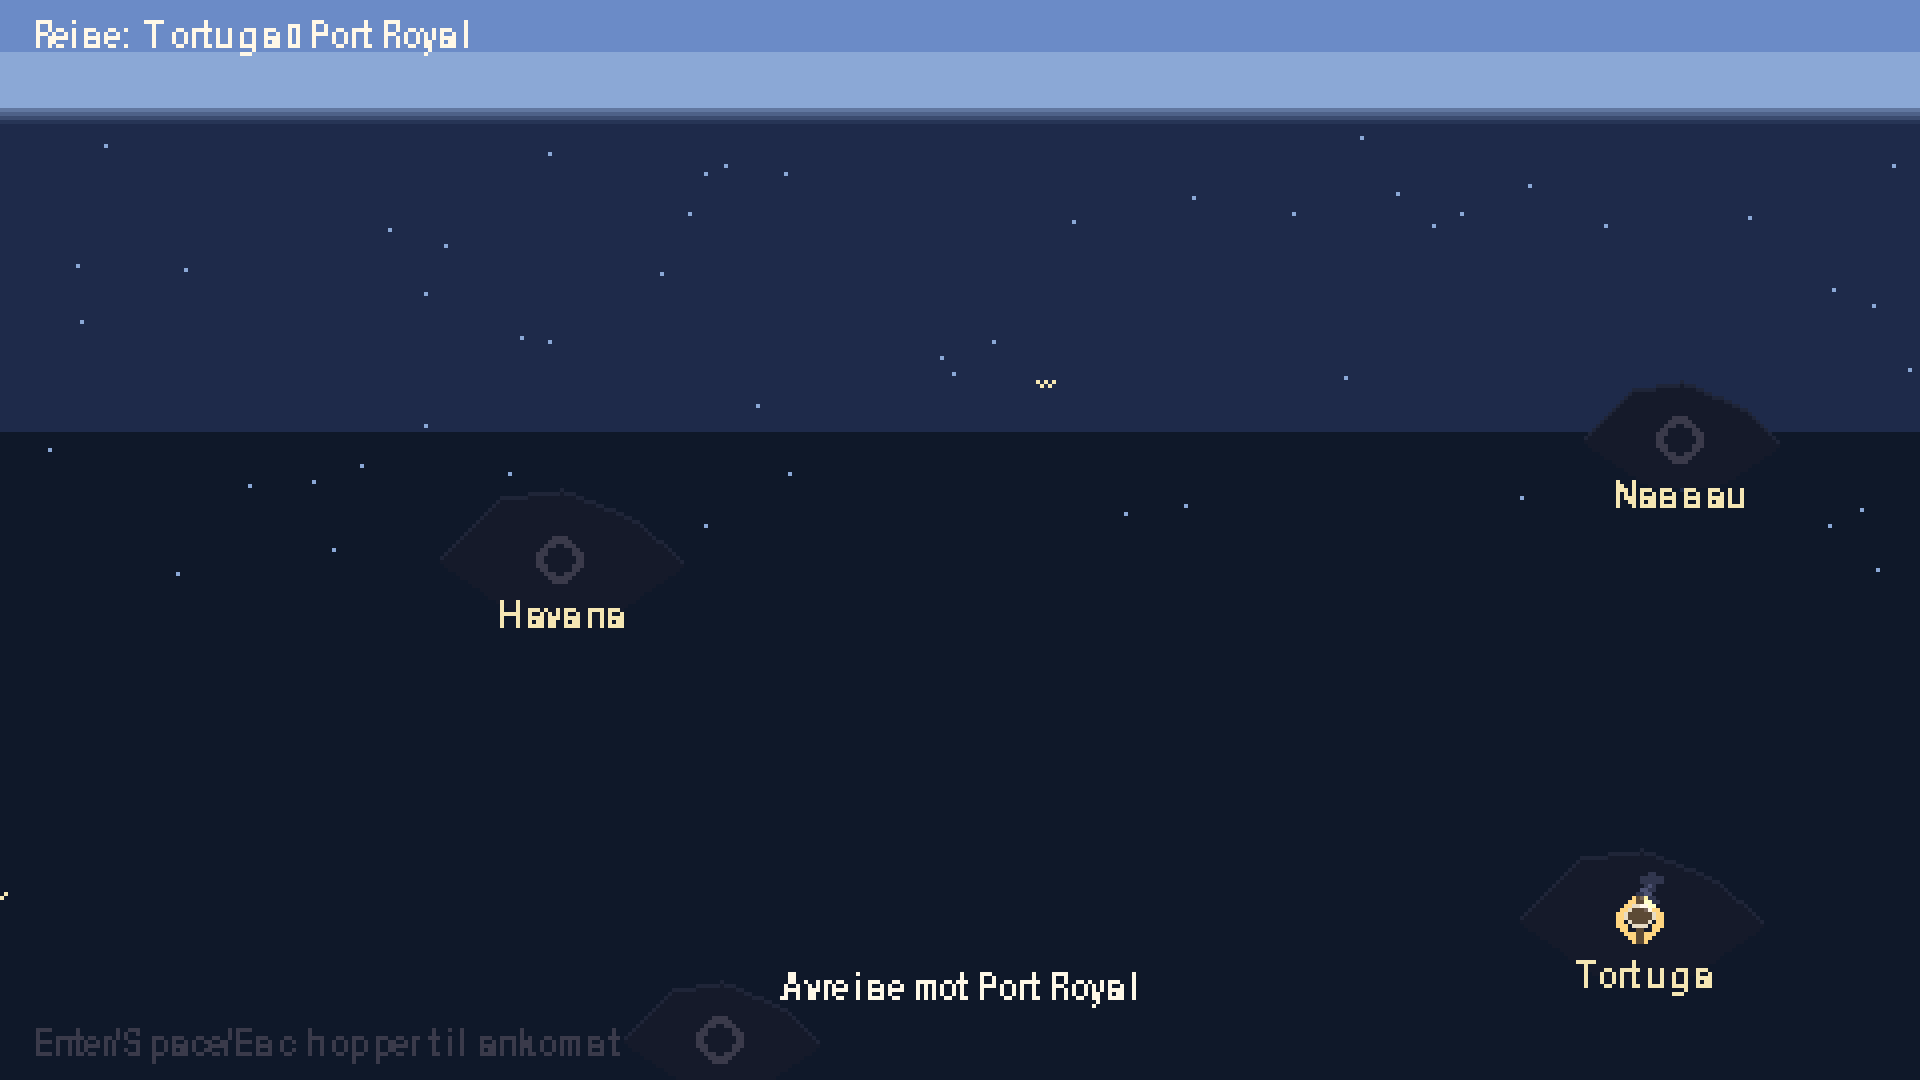
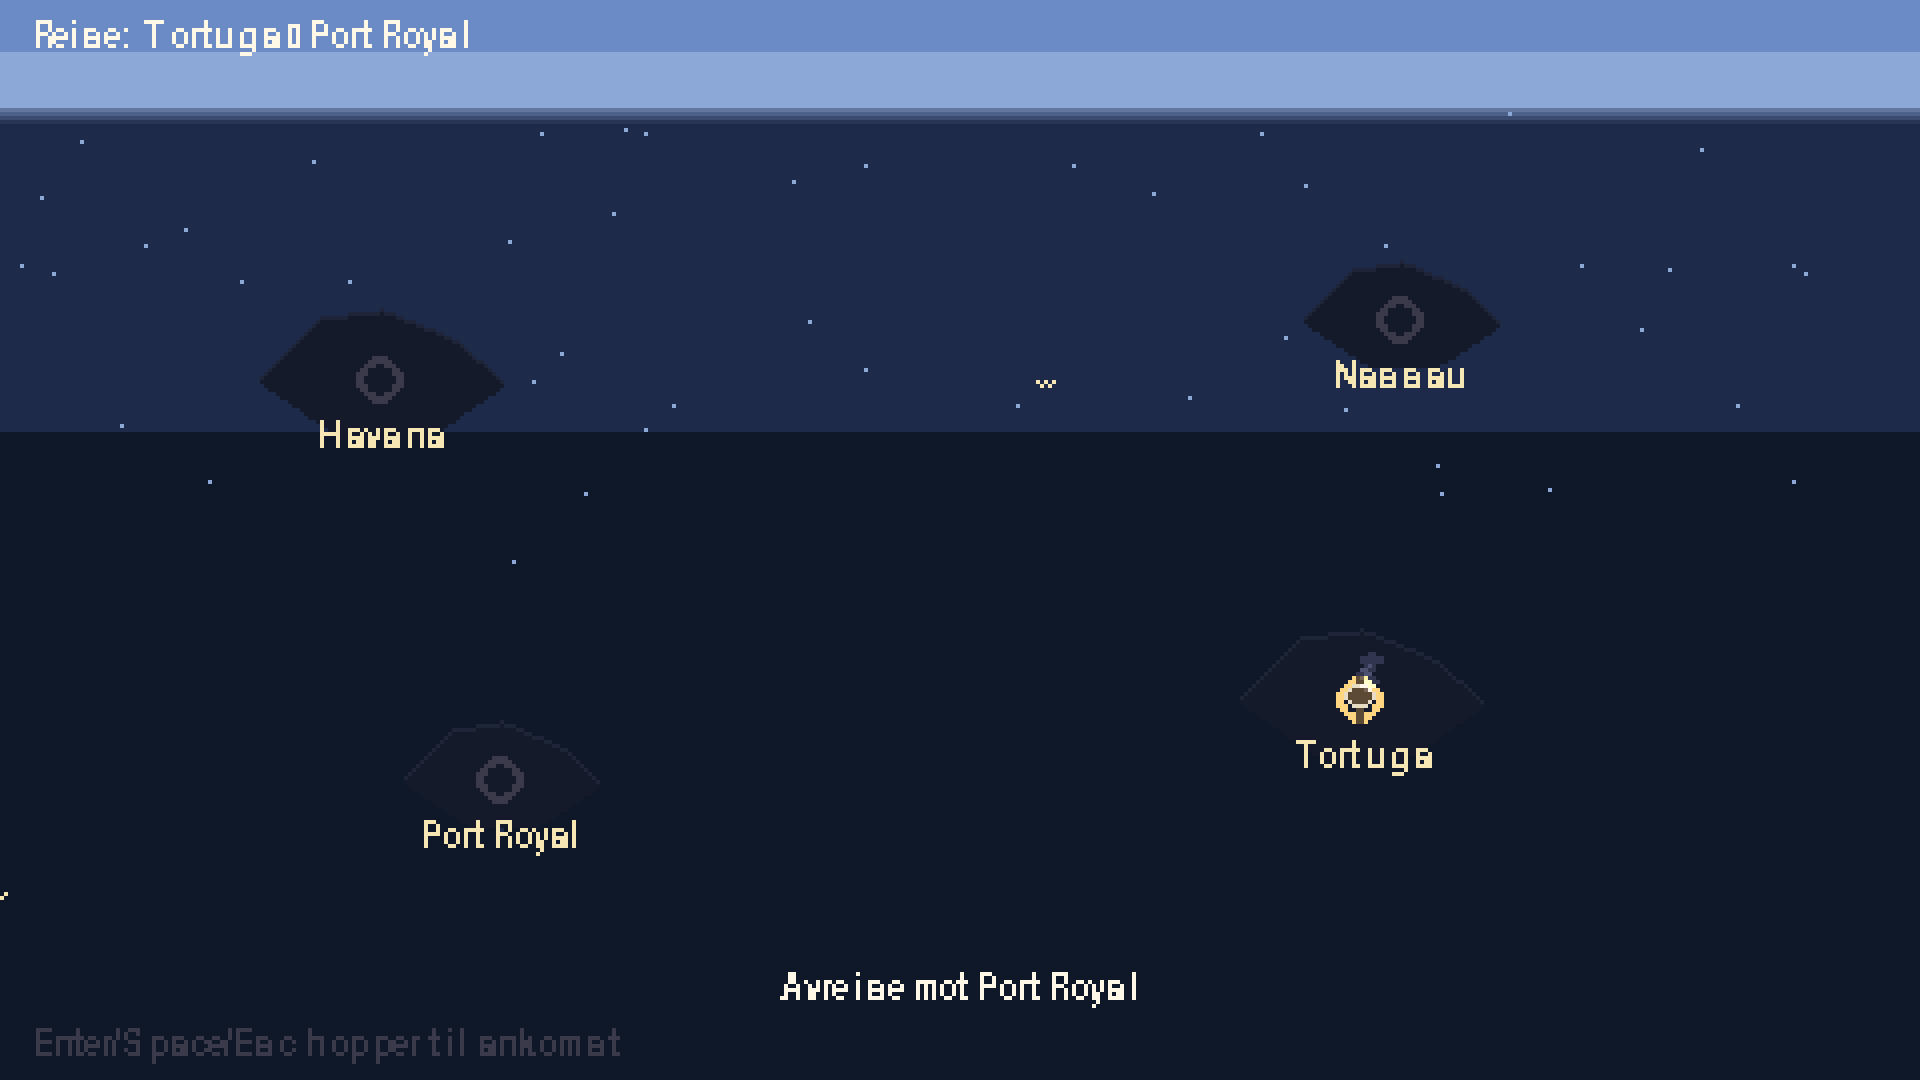
Fase 2.6 sub-steg 2: world_map + voyage paa 480x270
- data/ports.json: world_map_position re-balansert for 480x270
  (Tortuga 410,230 -> 340,175; Port Royal 180,260 -> 125,195;
  Havana 140,140 -> 95,95; Nassau 420,110 -> 350,80).
- scenes/world_map_builder.py: kommentar-/docstring-update.
- tests/test_world_map.py + tests/test_world_map_tooltip.py:
  bytt hardkodet 640/360 til constants.RENDER_WIDTH/HEIGHT, les
  havn-posisjoner fra scene-state framfor literal-koordinater,
  skann +-100 px vertikalt rundt anker for tooltip-flip-clamp.
- tools/: re-rendrede screenshots for begge scener (begge fyller
  hele 480x270-frame uten klipping).

Tester: 1057 -> 1050 passerer (10 -> 7 feilende; verlenkt feiling
er sub-steg 3-4 territorie: gameplay-bygninger og dialog-paneler).

diff --git a/tests/test_world_map.py b/tests/test_world_map.py
@@ -17,6 +17,7 @@ import random
 import pygame
 import pytest
 
+import constants
 from config import port_config
 from state import GameState
 
@@ -167,7 +168,8 @@ class TestWorldMapBuilder:
         a = build_world_map_background(ports, phase="noon", rng=random.Random(42))
         b = build_world_map_background(ports, phase="noon", rng=random.Random(42))
         # Sjekk noen prøve-piksler i hav-regionen
-        for x, y in [(100, 50), (300, 150), (500, 250)]:
+        # Prøvepunkter innenfor 480×270 (Fase 2.6 sub-steg 2).
+        for x, y in [(100, 50), (240, 150), (400, 200)]:
             assert a.get_at((x, y)) == b.get_at((x, y))
 
     def test_noon_and_dawn_phases_build_without_error(self):
@@ -289,7 +291,7 @@ class TestWorldMapSceneRendering:
     def test_draw_does_not_crash(self):
         from scenes.world_map import WorldMapScene
         scene = WorldMapScene(_font(), _state())
-        surf = pygame.Surface((640, 360))
+        surf = pygame.Surface((constants.RENDER_WIDTH, constants.RENDER_HEIGHT))
         scene.draw(surf)
 
     def test_elapsed_advances_on_update(self):
@@ -310,7 +312,7 @@ class TestWorldMapSceneRendering:
         from entities.port_marker import MARKER_SIZE
         from scenes.world_map import WorldMapScene
         scene = WorldMapScene(_font(), _state())
-        surf = pygame.Surface((640, 360))
+        surf = pygame.Surface((constants.RENDER_WIDTH, constants.RENDER_HEIGHT))
         scene.draw(surf)
 
         ports = port_config.get_all()
@@ -320,11 +322,11 @@ class TestWorldMapSceneRendering:
             found_halo = False
             for dy in range(0, 12):
                 y = label_top_y + dy
-                if not (0 <= y < 360):
+                if not (0 <= y < constants.RENDER_HEIGHT):
                     continue
                 for dx in range(-30, 31):
                     x = cx + dx
-                    if not (0 <= x < 640):
+                    if not (0 <= x < constants.RENDER_WIDTH):
                         continue
                     pix = surf.get_at((x, y))
                     if (pix[0], pix[1], pix[2]) == COLOR_MOON_HALO:
@@ -361,7 +363,7 @@ class TestWorldMapNeverVisitedMarker:
         # state, og de tre andre får "never_visited".
         scene = WorldMapScene(_font(), state)
         scene._focused_port_id = "tortuga"
-        surf = pygame.Surface((640, 360))
+        surf = pygame.Surface((constants.RENDER_WIDTH, constants.RENDER_HEIGHT))
         scene.draw(surf)
 
         ports = port_config.get_all()
@@ -373,7 +375,7 @@ class TestWorldMapNeverVisitedMarker:
             for dy in range(-half, half + 1):
                 for dx in range(-half, half + 1):
                     x, y = cx + dx, cy + dy
-                    if not (0 <= x < 640 and 0 <= y < 360):
+                    if not (0 <= x < constants.RENDER_WIDTH and 0 <= y < constants.RENDER_HEIGHT):
                         continue
                     pix = surf.get_at((x, y))
                     if (pix[0], pix[1], pix[2]) == COLOR_FOG:
@@ -399,7 +401,7 @@ class TestWorldMapNeverVisitedMarker:
 
         scene = WorldMapScene(_font(), state)
         scene._focused_port_id = "tortuga"  # tortuga = focused, ikke port_royal
-        surf = pygame.Surface((640, 360))
+        surf = pygame.Surface((constants.RENDER_WIDTH, constants.RENDER_HEIGHT))
         scene.draw(surf)
 
         ports = port_config.get_all()
@@ -428,18 +430,26 @@ class TestWorldMapTooltipOnFocus:
         """Tooltip for fokusert havn skal tegne MOON_CORE-piksler
         (havn-navn) under markøren når dialog er lukket.
         """
+        import constants
         from constants import COLOR_MOON_CORE
         from scenes.world_map import WorldMapScene
         scene = WorldMapScene(_font(), _state())
         scene._focused_port_id = "tortuga"
-        surf = pygame.Surface((640, 360))
+        surf = pygame.Surface((constants.RENDER_WIDTH, constants.RENDER_HEIGHT))
         scene.draw(surf)
 
-        # Tooltip ligger under fokusert markør (Tortuga ved 410, 230)
-        anchor = (410, 230)
+        # Tooltip ligger under eller over fokusert markør (flip-clamp ved
+        # bunn-edge). Les havn-posisjon fra scene-state slik at testen
+        # tåler oppløsnings-/koordinat-endringer i data/ports.json
+        # (Fase 2.6 sub-steg 2).
+        anchor = scene._port_positions[scene._focused_port_id]
+        h_max = constants.RENDER_HEIGHT
+        w_max = constants.RENDER_WIDTH
+        # Skann ±100 px vertikalt rundt markøren — tooltip kan være over
+        # eller under avhengig av plass.
         found_navn = False
-        for y in range(anchor[1] + 10, min(360, anchor[1] + 90)):
-            for x in range(max(0, anchor[0] - 80), min(640, anchor[0] + 80)):
+        for y in range(max(0, anchor[1] - 100), min(h_max, anchor[1] + 100)):
+            for x in range(max(0, anchor[0] - 80), min(w_max, anchor[0] + 80)):
                 pix = surf.get_at((x, y))
                 if (pix[0], pix[1], pix[2]) == COLOR_MOON_CORE:
                     found_navn = True
@@ -457,7 +467,7 @@ class TestWorldMapTooltipOnFocus:
         scene = WorldMapScene(_font(), _state())
         scene._focused_port_id = "havana"
         scene._dialog = _VoyageConfirmDialog(_font(), "Havana", 3, 15)
-        surf = pygame.Surface((640, 360))
+        surf = pygame.Surface((constants.RENDER_WIDTH, constants.RENDER_HEIGHT))
         scene.draw(surf)  # skal ikke krasje
         # Implisitt: ingen kontroll på tooltip — hvis koden var feil
         # ville surf-pixel-state vært udefinert. Test passerer hvis

diff --git a/tests/test_world_map_tooltip.py b/tests/test_world_map_tooltip.py
@@ -321,7 +321,9 @@ class TestTooltipDraw:
         rendret med den fargen er en pålitelig signatur."""
         market_state = _market_with_history()
         tooltip = WorldMapTooltip(_font())
-        surf = pygame.Surface((640, 360))
+        # Bruk samme oppløsning som spillet for at clamp-logikken skal
+        # plassere tooltipen i samme region testen scanner i (Fase 2.6).
+        surf = pygame.Surface((constants.RENDER_WIDTH, constants.RENDER_HEIGHT))
 
         lines = build_tooltip_lines(
             port_name="Tortuga",
@@ -331,15 +333,18 @@ class TestTooltipDraw:
             catalog_names=_CATALOG_NAMES,
             current_day=5, stale_threshold=5, is_current_port=True,
         )
-        anchor = (320, 180)
+        # Anker midt på skjermen så tooltip ikke trenger flip-clamp.
+        anchor = (constants.RENDER_WIDTH // 2, constants.RENDER_HEIGHT // 3)
         tooltip.draw(surf, lines, anchor)
 
-        # Tooltip ligger under anchor; sampler vertikal stripe
-        # nedover for COLOR_MOON_CORE-piksler.
+        # Tooltip ligger normalt under anchor, men kan flippe over ved
+        # bunn-clamp. Skann ±100 px vertikalt for COLOR_MOON_CORE.
         target = constants.COLOR_MOON_CORE
         found = False
-        for y in range(anchor[1], min(360, anchor[1] + 80)):
-            for x in range(max(0, anchor[0] - 80), min(640, anchor[0] + 80)):
+        h_max = constants.RENDER_HEIGHT
+        w_max = constants.RENDER_WIDTH
+        for y in range(max(0, anchor[1] - 100), min(h_max, anchor[1] + 100)):
+            for x in range(max(0, anchor[0] - 80), min(w_max, anchor[0] + 80)):
                 pix = surf.get_at((x, y))
                 if (pix[0], pix[1], pix[2]) == target:
                     found = True

diff --git a/scenes/world_map_builder.py b/scenes/world_map_builder.py
@@ -1,7 +1,7 @@
 """Bake-funksjoner for verdenskart-bakgrunn (Fase 2B C5, utvidet i C5.1).
 
-Bygger 4 fase-varianter (noon/dawn/dusk/night) av 640×360 kart-
-bakgrunnen. Hver variant inkluderer:
+Bygger 4 fase-varianter (noon/dawn/dusk/night) av 480×270 kart-
+bakgrunnen (Fase 2.6 sub-steg 2; tidligere 640×360). Hver variant inkluderer:
 - Himmel-band topp (fase-avhengig gradient)
 - Hav-gradient (3 striper)
 - §8.4 skyggedybde — lysere SEA_MID i coastal_radius rundt hver øy
@@ -317,7 +317,7 @@ def build_world_map_background(
     phase: str = "noon",
     rng: random.Random | None = None,
 ) -> pygame.Surface:
-    """Bygg 640×360 kart-bakgrunn for gitt fase.
+    """Bygg 480×270 kart-bakgrunn for gitt fase (Fase 2.6).
 
     Render-rekkefølge (viktig — senere lag tegnes OVER tidligere):
     1. Himmel-band (noon-gradient for alle faser i C5.1)
